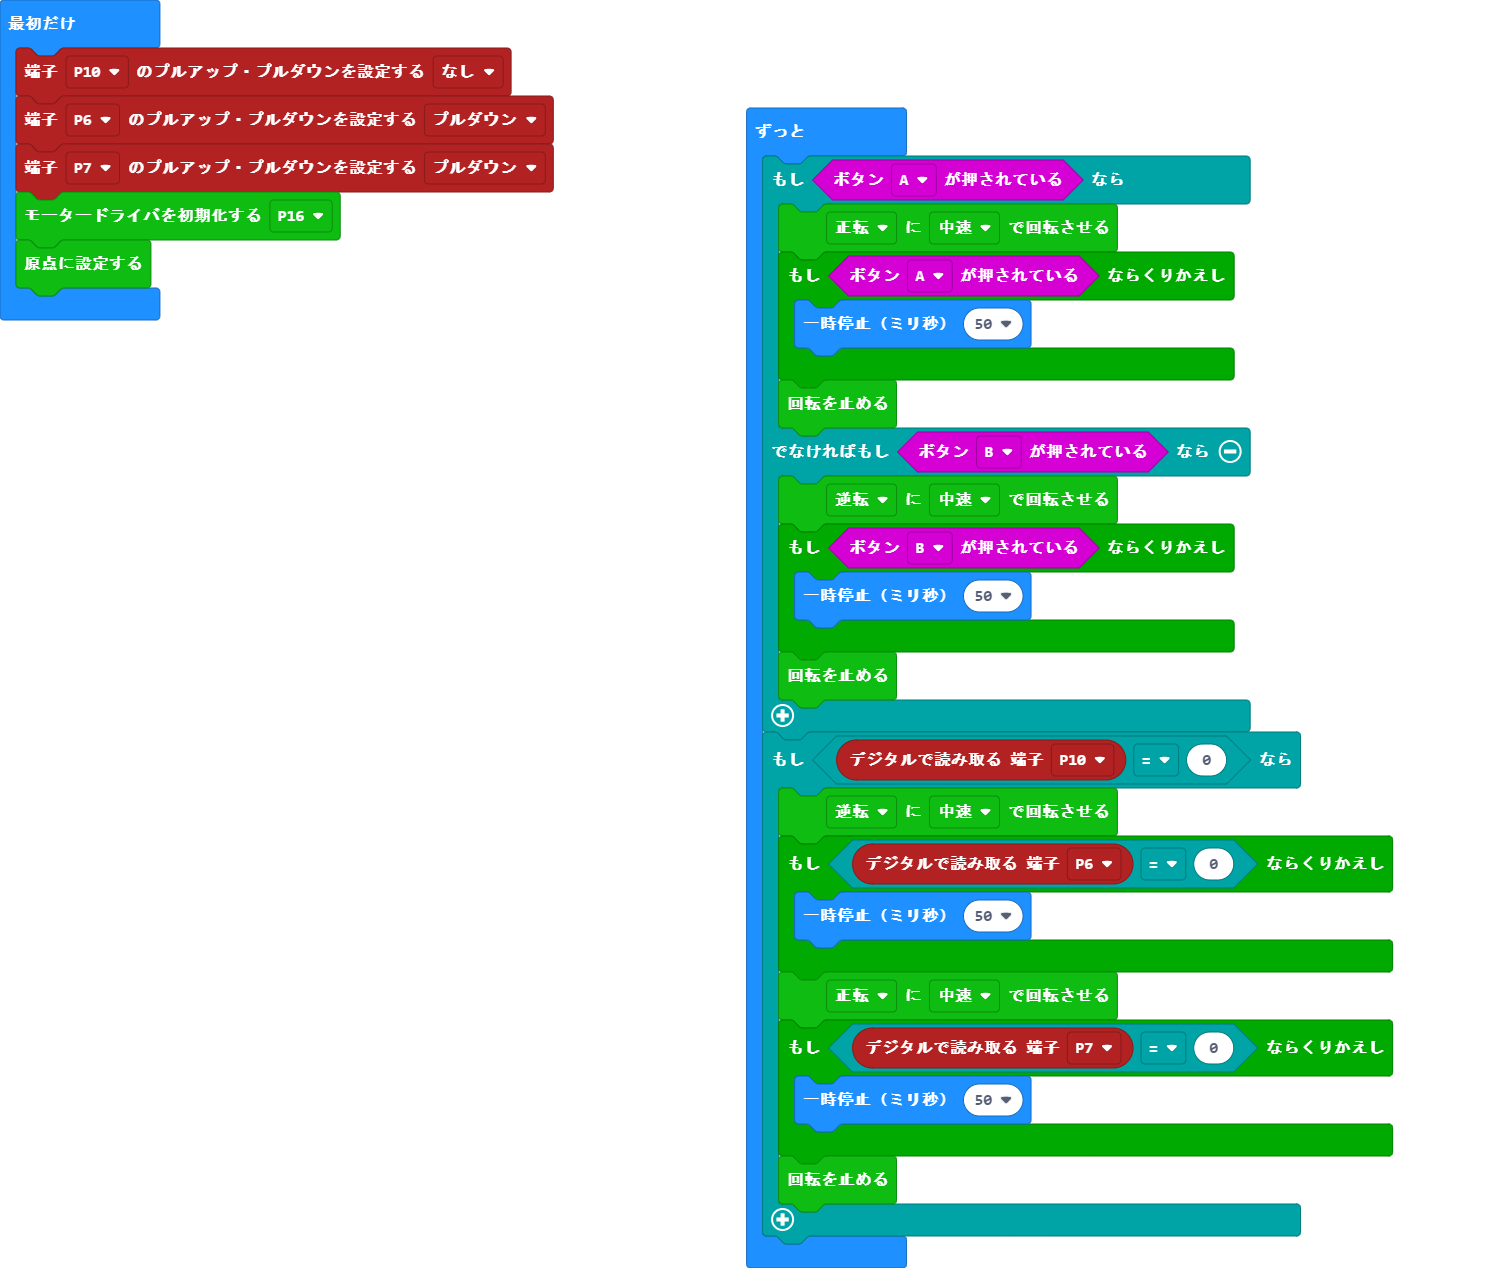
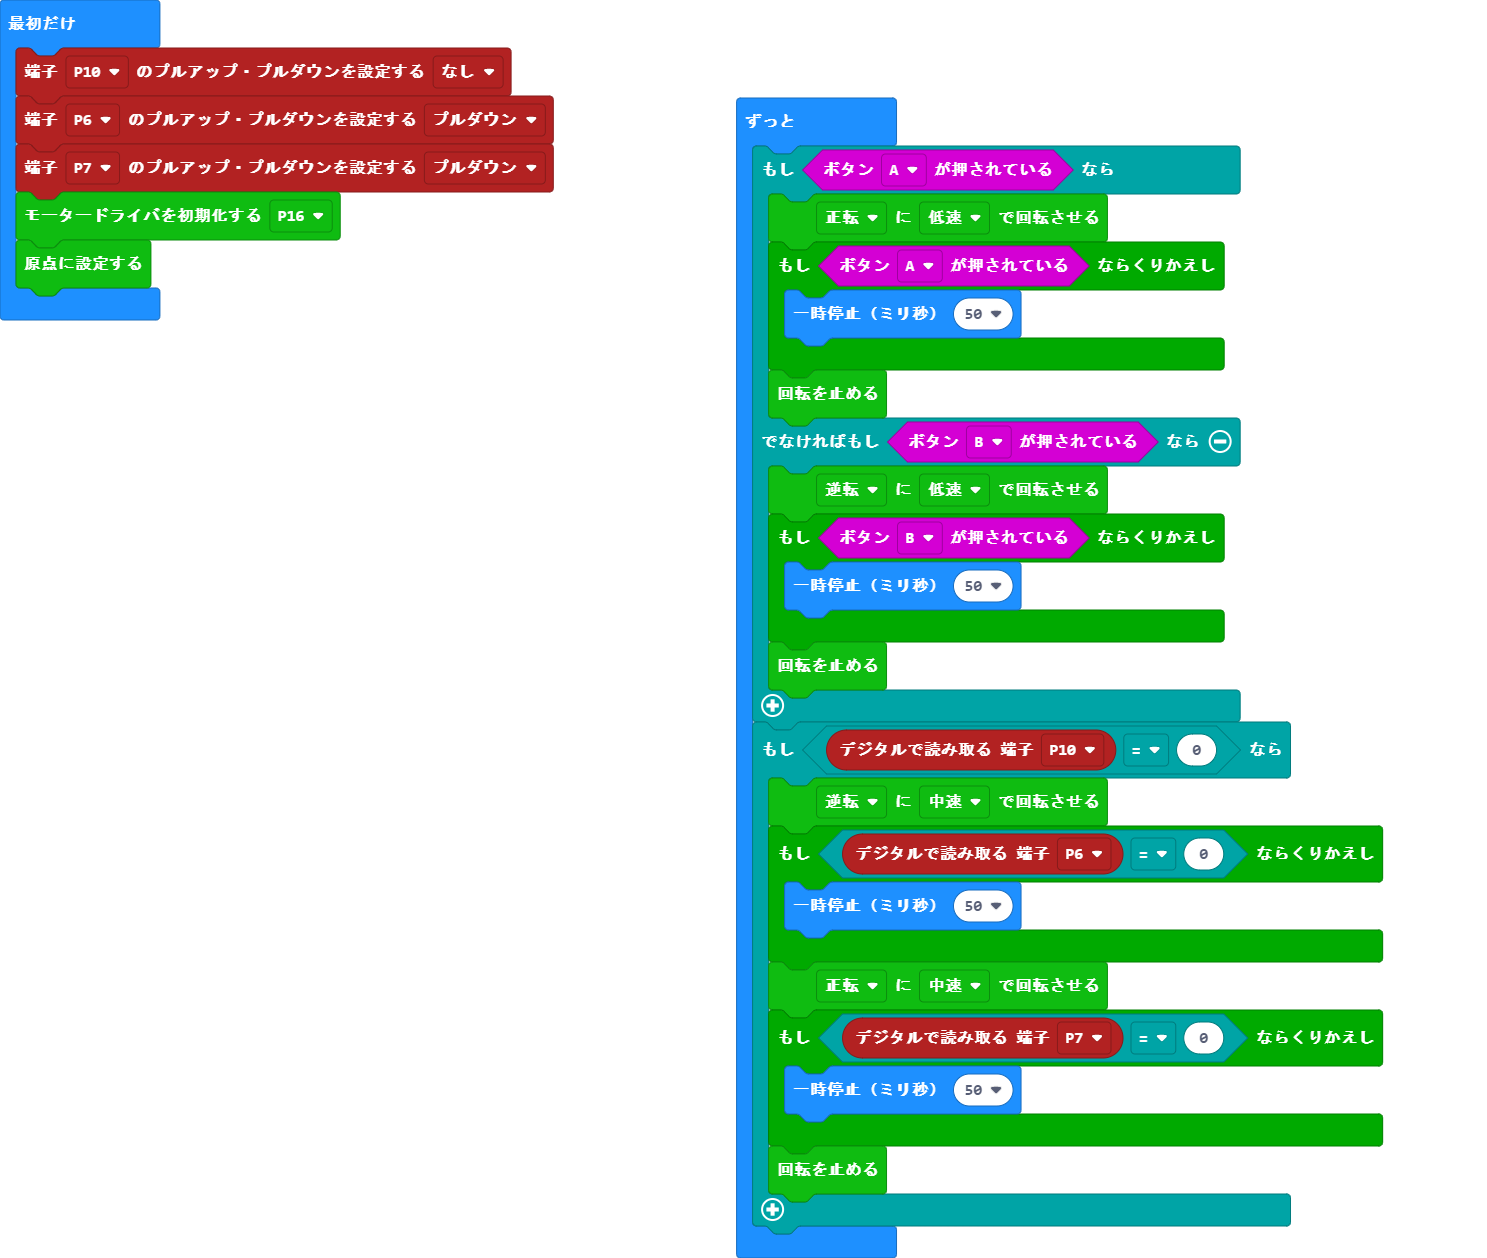
main.tsの中身をtest.tsに移動

Changed region(s): [[0.495, 0.062, 0.928, 1.0], [0.0, 0.0, 0.3712, 0.279], [0.5878, 0.9921, 0.6187, 1.0]]

diff --git a/test.ts b/test.ts
@@ -1,1 +1,32 @@
 // テストはここに来ます。このパッケージが拡張機能として使用されるときにはコンパイルされません。
+pins.setPull(DigitalPin.P10, PinPullMode.PullNone)
+pins.setPull(DigitalPin.P6, PinPullMode.PullDown)
+pins.setPull(DigitalPin.P7, PinPullMode.PullDown)
+L6470.Initialize(DigitalPin.P16)
+L6470.setHome()
+basic.forever(function () {
+    if (input.buttonIsPressed(Button.A)) {
+        L6470.Run(Dir.CW, Speed.Low)
+        while (input.buttonIsPressed(Button.A)) {
+            basic.pause(50)
+        }
+        L6470.Stop()
+    } else if (input.buttonIsPressed(Button.B)) {
+        L6470.Run(Dir.CCW, Speed.Low)
+        while (input.buttonIsPressed(Button.B)) {
+            basic.pause(50)
+        }
+        L6470.Stop()
+    }
+    if (pins.digitalReadPin(DigitalPin.P10) == 0) {
+        L6470.Run(Dir.CCW, Speed.Mid)
+        while (pins.digitalReadPin(DigitalPin.P6) == 0) {
+            basic.pause(50)
+        }
+        L6470.Run(Dir.CW, Speed.Mid)
+        while (pins.digitalReadPin(DigitalPin.P7) == 0) {
+            basic.pause(50)
+        }
+        L6470.Stop()
+    }
+})

diff --git a/custom.ts b/custom.ts
@@ -281,8 +281,7 @@ namespace L6470 {
             let command
             command = L6470_MotionCommands.Move
             command |= dir //末尾1桁で回転方向指定
-            serial.writeLine("command:" + command.toString())
-
+            
             const microstep = this.convertAngleToMicrostep(angle)
             
             this.sendCommand(command, microstep, 22)
